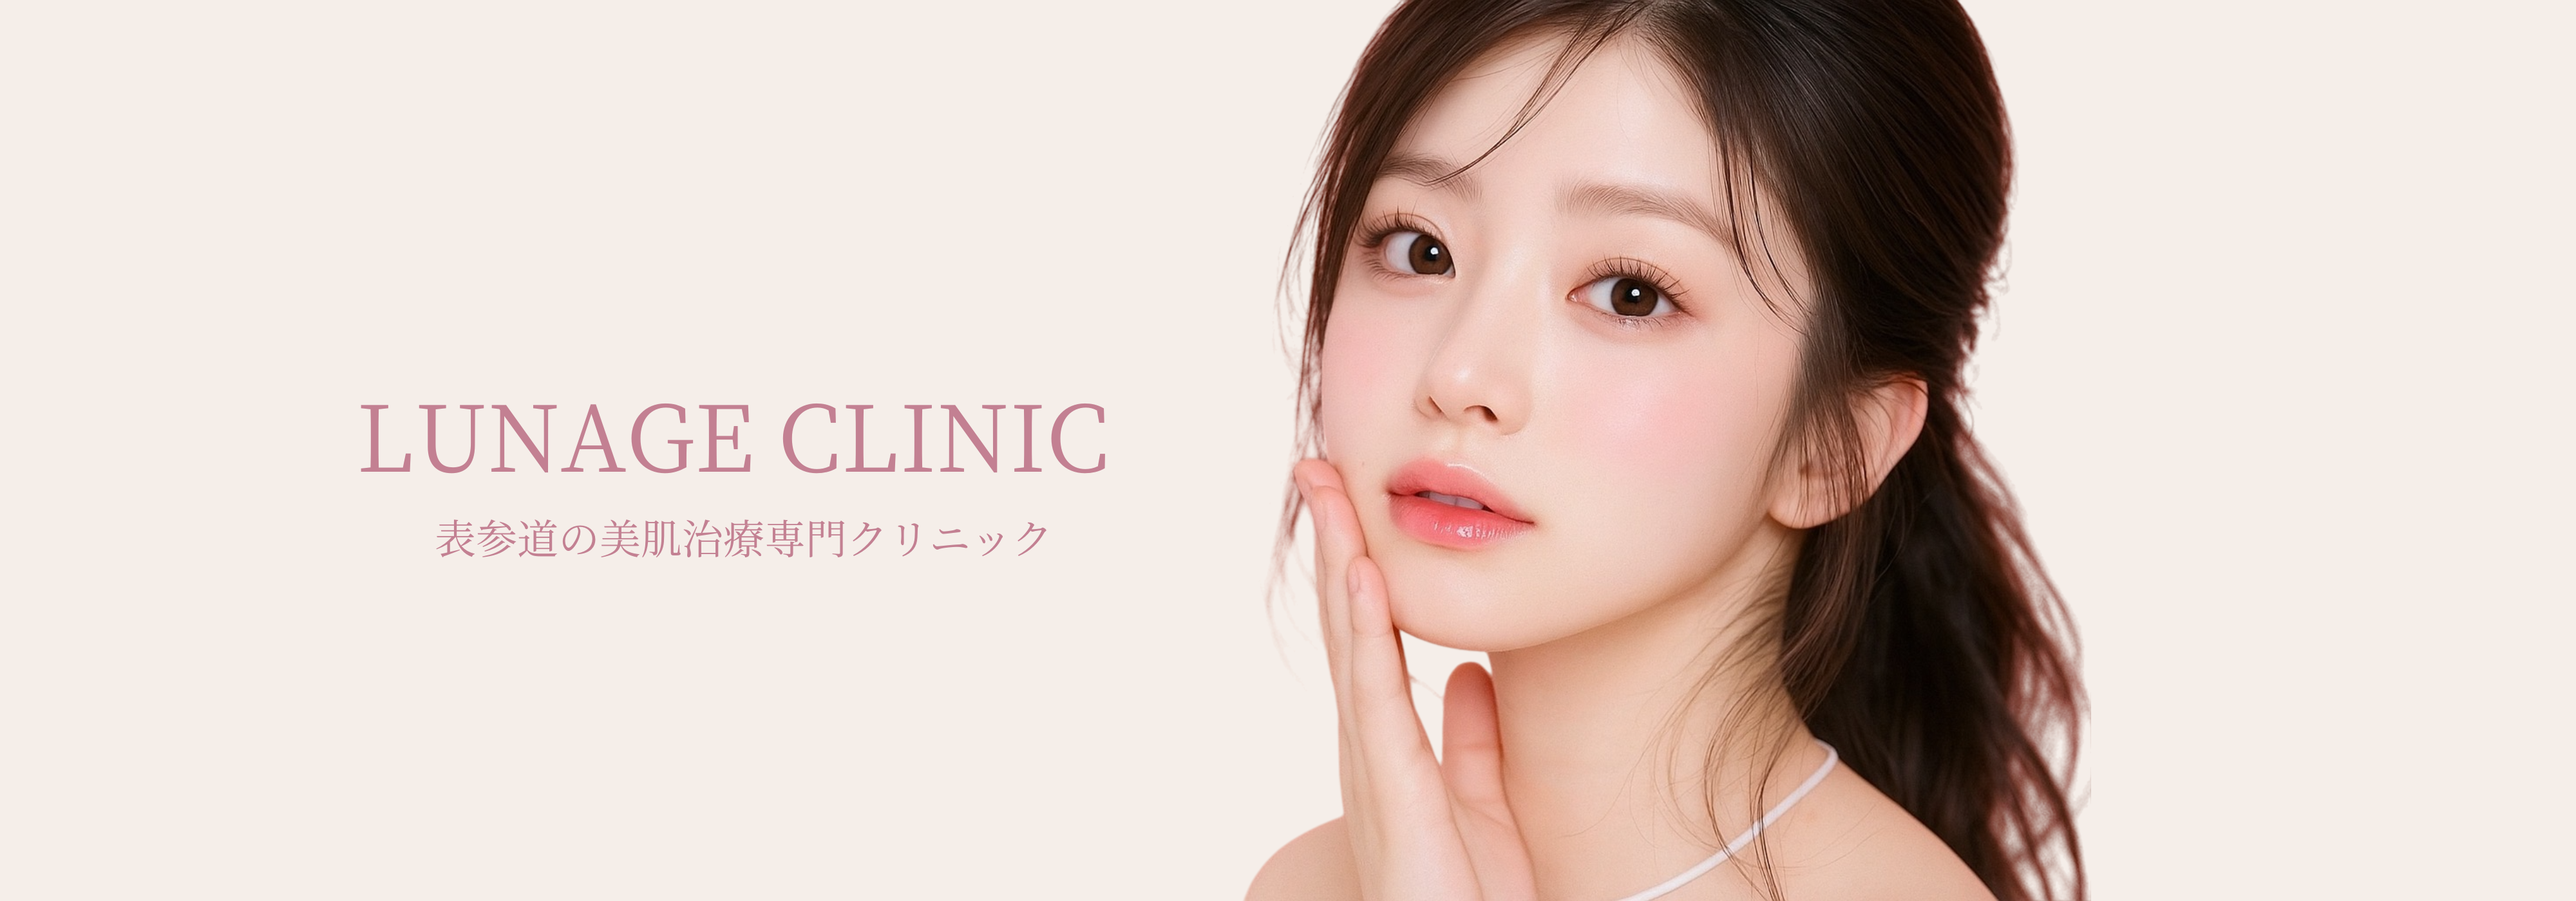
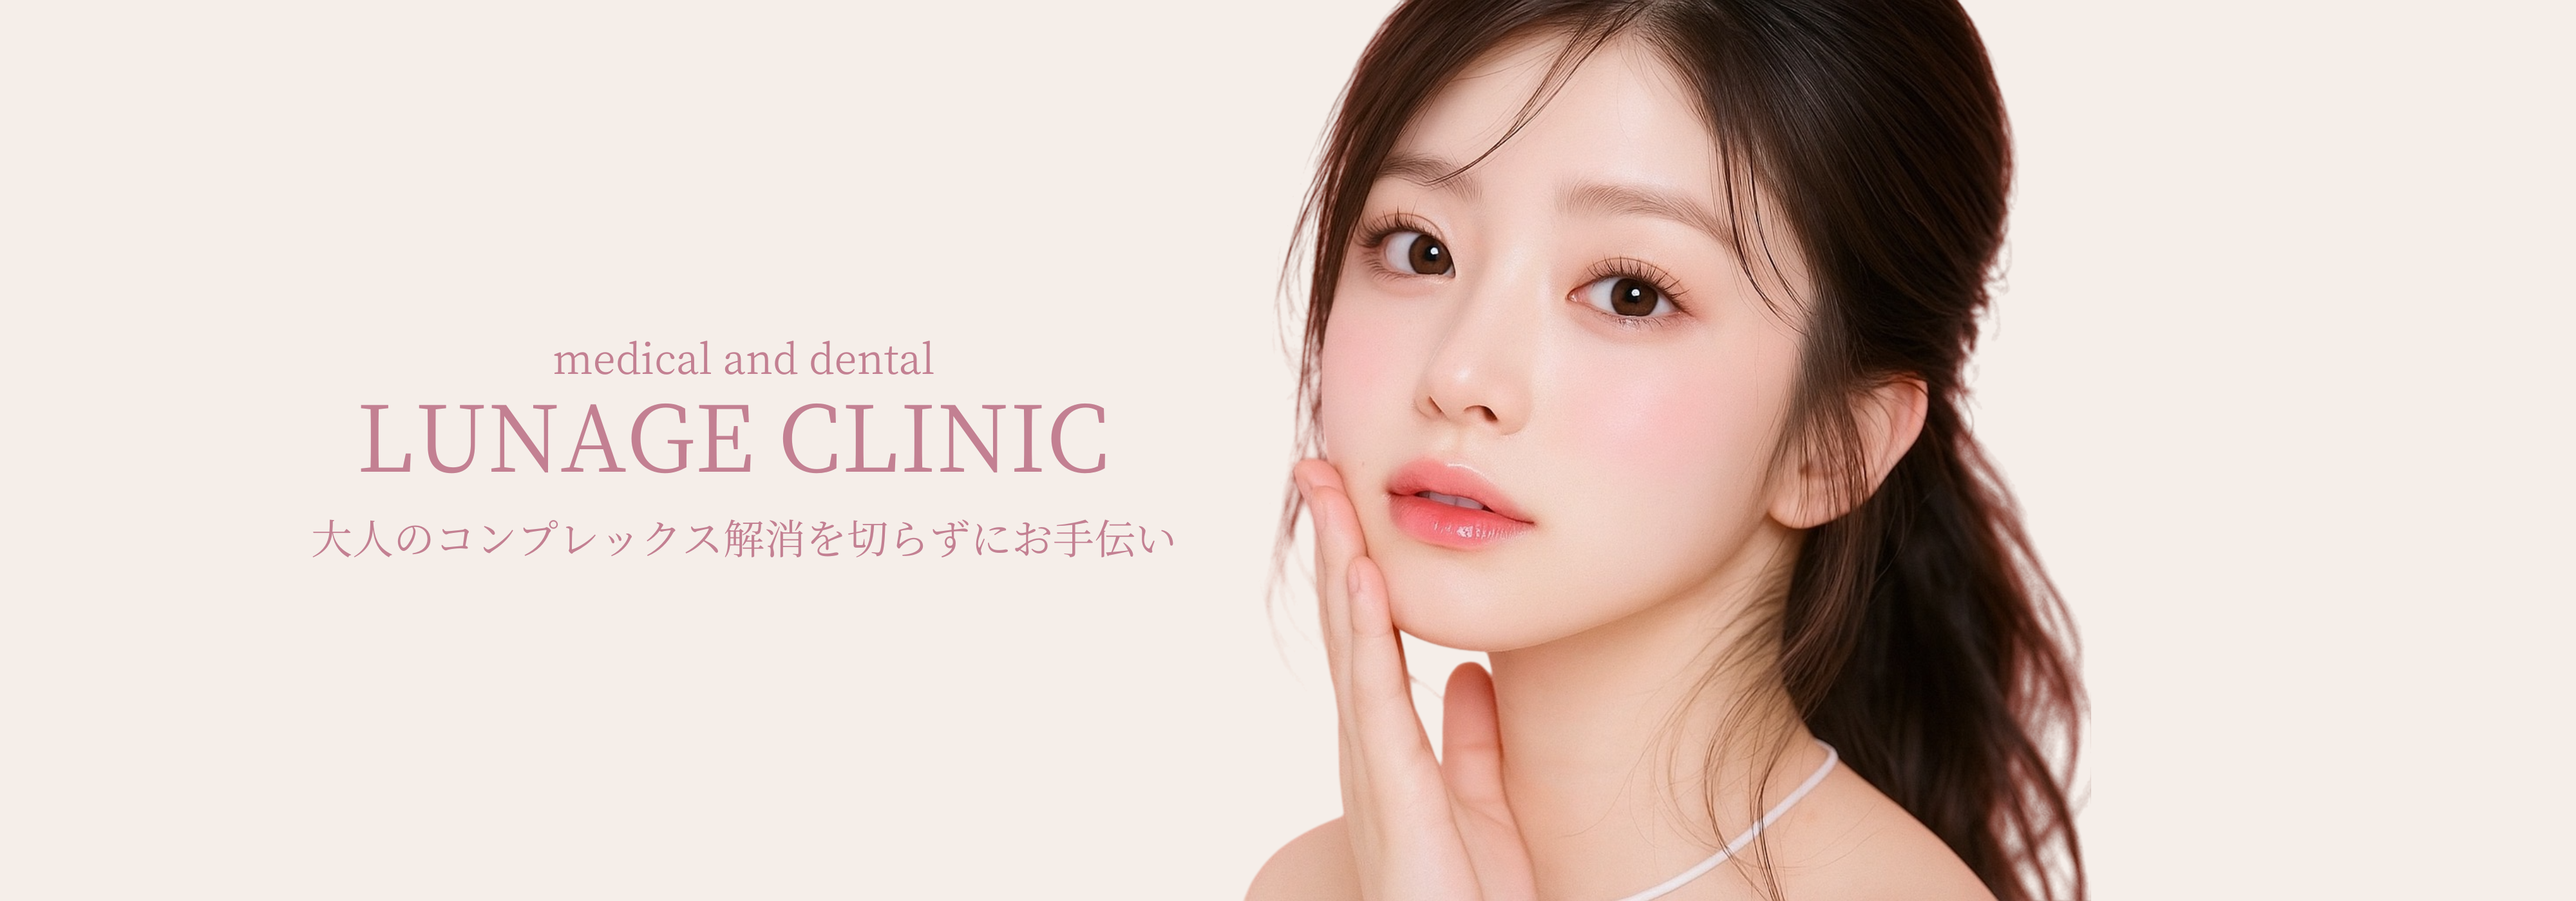
medical and dental 追加

Changed region(s): [[0.125, 0.5836, 0.4375, 0.6143], [0.2188, 0.3686, 0.375, 0.43]]

diff --git a/src/components/Footer.tsx b/src/components/Footer.tsx
@@ -10,7 +10,8 @@ export default function Footer() {
         <div className="grid md:grid-cols-2 lg:grid-cols-4 gap-8">
           {/* Clinic Logo and Info */}
           <div className="lg:col-span-2">
-            <h3 className="text-3xl font-shippori font-bold mb-6">
+            <h3 className="text-3xl font-shippori font-bold mb-6 w-fit flex flex-col items-center">
+              <span className="text-[14px] leading-[1]">medical and dental</span>
               LUNAGE CLINIC
             </h3>
             <div className="space-y-2 text-[#dacacf] font-shippori">
@@ -31,9 +32,6 @@ export default function Footer() {
               </Link>
               <Link href="#about" className="block text-[#dacacf] hover:text-white transition-colors font-shippori">
                 About
-              </Link>
-              <Link href="#doctor" className="block text-[#dacacf] hover:text-white transition-colors font-shippori">
-                Doctor
               </Link>
               <Link href="#menu" className="block text-[#dacacf] hover:text-white transition-colors font-shippori">
                 Menu
@@ -89,7 +87,7 @@ export default function Footer() {
         <div className="border-t border-[#8a6d62] mt-12 pt-8">
           <div className="flex flex-col md:flex-row justify-between items-center">
             <p className="text-[#dacacf] font-shippori text-sm">
-              © 2025 LUNAGE CLINIC All Rights Reserved.
+              © 2026 medical and dental LUNAGE CLINIC All Rights Reserved.
             </p>
             <div className="flex space-x-6 mt-4 md:mt-0">
               {/* <Link href="#" className="text-[#dacacf] hover:text-white transition-colors font-shippori text-sm">

diff --git a/src/components/Header.tsx b/src/components/Header.tsx
@@ -58,9 +58,12 @@ export default function Header() {
             whileHover={{ scale: 1.05 }}
             transition={{ duration: 0.2 }}
           >
-            <Link href="/" className="text-xl md:text-2xl font-bold text-[#54585f] font-shippori">
-              LUNAGE CLINIC
-            </Link>
+            <div>
+              <Link href="/" className="text-xl md:text-2xl font-bold text-[#54585f] font-shippori flex flex-col items-center">
+                <span className="text-[10px] leading-[1]">medical and dental</span>
+                LUNAGE CLINIC
+              </Link>
+            </div>
           </motion.div>
 
           {/* Desktop Navigation */}

diff --git a/src/components/InformationSection.tsx b/src/components/InformationSection.tsx
@@ -17,7 +17,8 @@ export default function InformationSection() {
           <div>
             <div className="space-y-8">
               <div>
-                <h3 className="text-2xl font-shippori font-medium text-[#54585f] mb-6">
+                <h3 className="text-2xl font-shippori font-medium text-[#54585f] mb-6 w-fit flex flex-col items-center">
+                  <span className="text-[14px] leading-[1]">medical and dental</span>
                   LUNAGE CLINIC
                 </h3>
                 <div className="space-y-4 text-[#54585f] font-shippori">

diff --git a/src/components/HeroSection.tsx b/src/components/HeroSection.tsx
@@ -79,7 +79,8 @@ export default function HeroSection() {
             大人のコンプレックス解消を切らずにお手伝い
             </p>
             
-            <h1 className="text-[#54585f] font-shippori font-medium text-base sm:text-4xl lg:text-5xl">
+            <h1 className="text-[#54585f] font-shippori font-medium text-base sm:text-4xl lg:text-5xl flex flex-col items-center">
+              <span className="text-[10px] leading-[1]">medical and dental</span>
               LUNAGE CLINIC
             </h1>
           </div>
